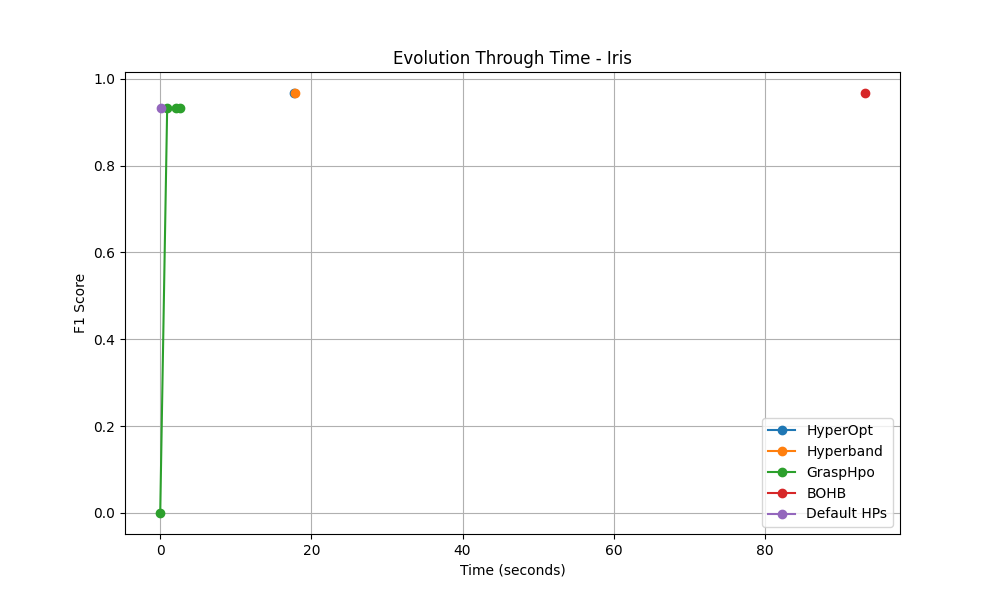
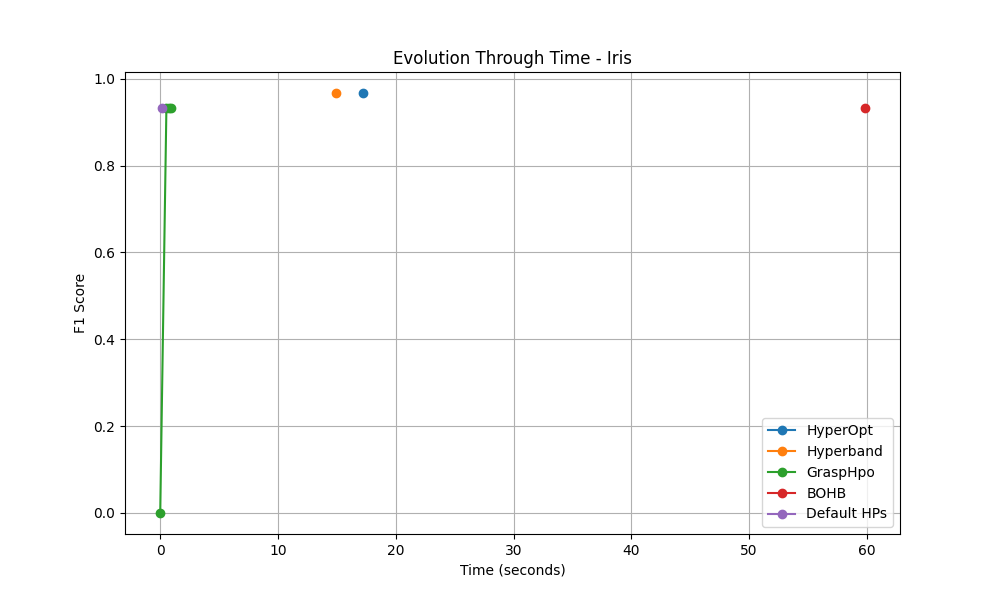
Timelimit on both phases and starting priority queue with default hyperparameters

diff --git a/src/hpo/grasp/phase2grasp.py b/src/hpo/grasp/phase2grasp.py
@@ -9,11 +9,12 @@ class LocalSearch:
     margin = .3
 
     # dictionary of HPs and their ranges
-    def __init__(self, evaluate, MAX) -> None:
+    def __init__(self, evaluate, iterations, timelimit) -> None:
         self.int_hps = None
         self.hp_ranges = None
         self.evaluate = evaluate
-        self.max_iter = MAX
+        self.max_iter = iterations
+        self.timelimit = timelimit
 
     def set_param(self, ranges: dict):
         self.hp_ranges = ranges
@@ -28,7 +29,7 @@ class LocalSearch:
     def set_iter(self, num):
         if 0 < num < 512: self.max_iter = num
 
-    def local_search(self, intermed_best_sols: PriorityQueue, x_train, x_test, y_train, y_test, ranges: dict, start_time, verbose=False):
+    def local_search(self, intermed_best_sols: PriorityQueue, x_train, x_test, y_train, y_test, ranges: dict, start_time, phase_start_time, verbose=False):
         self.set_param(ranges)
 
         iter = 1
@@ -39,11 +40,13 @@ class LocalSearch:
         tmp_score = 0
 
         while not intermed_best_sols.empty():
+            if time.time() - phase_start_time > self.timelimit:
+                break
 
             cur = intermed_best_sols.get()
 
             if verbose: print('LS iteration {}: \nBest solution after phase 1: {}\nCorresponding score: {}'.format(iter, cur[2], cur[0]))
-            tmp_score, tmp_sol = self.hill_climb(cur[2], x_train, x_test, y_train, y_test)
+            tmp_score, tmp_sol = self.hill_climb(cur[2], x_train, x_test, y_train, y_test, phase_start_time)
             if verbose: print('LS iteration {}: \nBest solution after phase 2: {}\nCorresponding score: {}\n'.format(iter, tmp_sol, tmp_score))
 
             if tmp_score > local_best_score:
@@ -59,12 +62,15 @@ class LocalSearch:
 
         return local_best_sol, local_best_score, f1_scores_evolution, time_evolution
 
-    def hill_climb(self, cur_sol: dict, x_train, x_test, y_train, y_test):
+    def hill_climb(self, cur_sol: dict, x_train, x_test, y_train, y_test, phase_start_time):
 
         best_sol = cur_sol
         best_score = self.evaluate(cur_sol, x_train, x_test, y_train, y_test)
 
         for _ in range(self.max_iter):
+
+            if time.time() - phase_start_time > self.timelimit:
+                break
 
             neighbor_sol = self.generate_neighbor(cur_sol)
             neighbor_score = self.evaluate(neighbor_sol, x_train, x_test, y_train, y_test)

diff --git a/src/hpo/grasp/grasp_hpo.py b/src/hpo/grasp/grasp_hpo.py
@@ -9,6 +9,7 @@ from src.hpo.grasp.phase2grasp import LocalSearch
 
 
 LOCAL_SEARCH_ITERATIONS = 1
+LOCAL_SEARCH_TIMELIMIT = 1
 BUILDING_PHASE_ITERATIONS = 1
 BUILDING_PHASE_TIMELIMIT = 20
 INTERMEDIATE_RESULTS_SIZE = 5
@@ -18,12 +19,13 @@ class GraspHpo(HPOStrategy):
 
     def __init__(self) -> None:
         self.phase1 = Construction(self.evaluate_solution, BUILDING_PHASE_ITERATIONS, INTERMEDIATE_RESULTS_SIZE, BUILDING_PHASE_TIMELIMIT)
-        self.phase2 = LocalSearch(self.evaluate_solution, LOCAL_SEARCH_ITERATIONS)
+        self.phase2 = LocalSearch(self.evaluate_solution, LOCAL_SEARCH_ITERATIONS, LOCAL_SEARCH_TIMELIMIT)
 
     def hyperparameter_optimization(self, x_train, x_test, y_train, y_test, search_space):
         start_time = time.time()
         best_intermediate_combinations, f1_scores_evolution, time_evolution = self.phase1.building_phase(x_train, x_test, y_train, y_test, search_space, start_time)
-        local_best_sol, local_best_score, f1_scores_evolution2, time_evolution2 = self.phase2.local_search(best_intermediate_combinations, x_train, x_test, y_train, y_test, search_space, start_time)
+        local_search_start_time = time.time()
+        local_best_sol, local_best_score, f1_scores_evolution2, time_evolution2 = self.phase2.local_search(best_intermediate_combinations, x_train, x_test, y_train, y_test, search_space, start_time, local_search_start_time)
         f1_scores_evolution.extend(f1_scores_evolution2)
         time_evolution.extend(time_evolution2)
 
